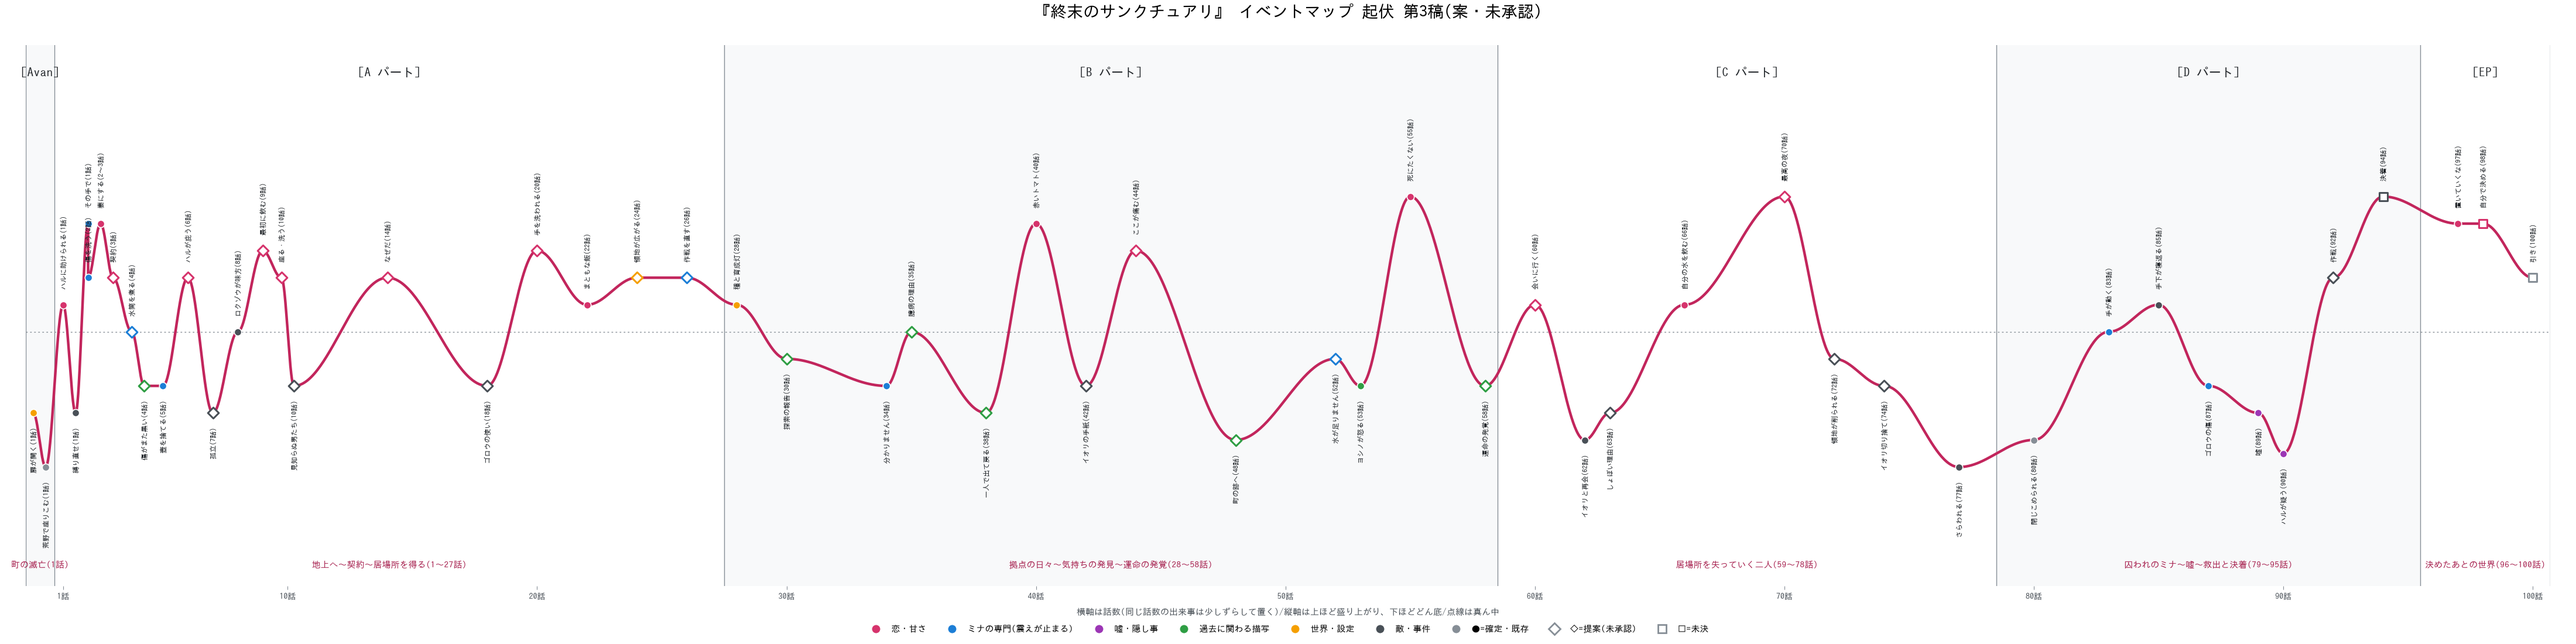
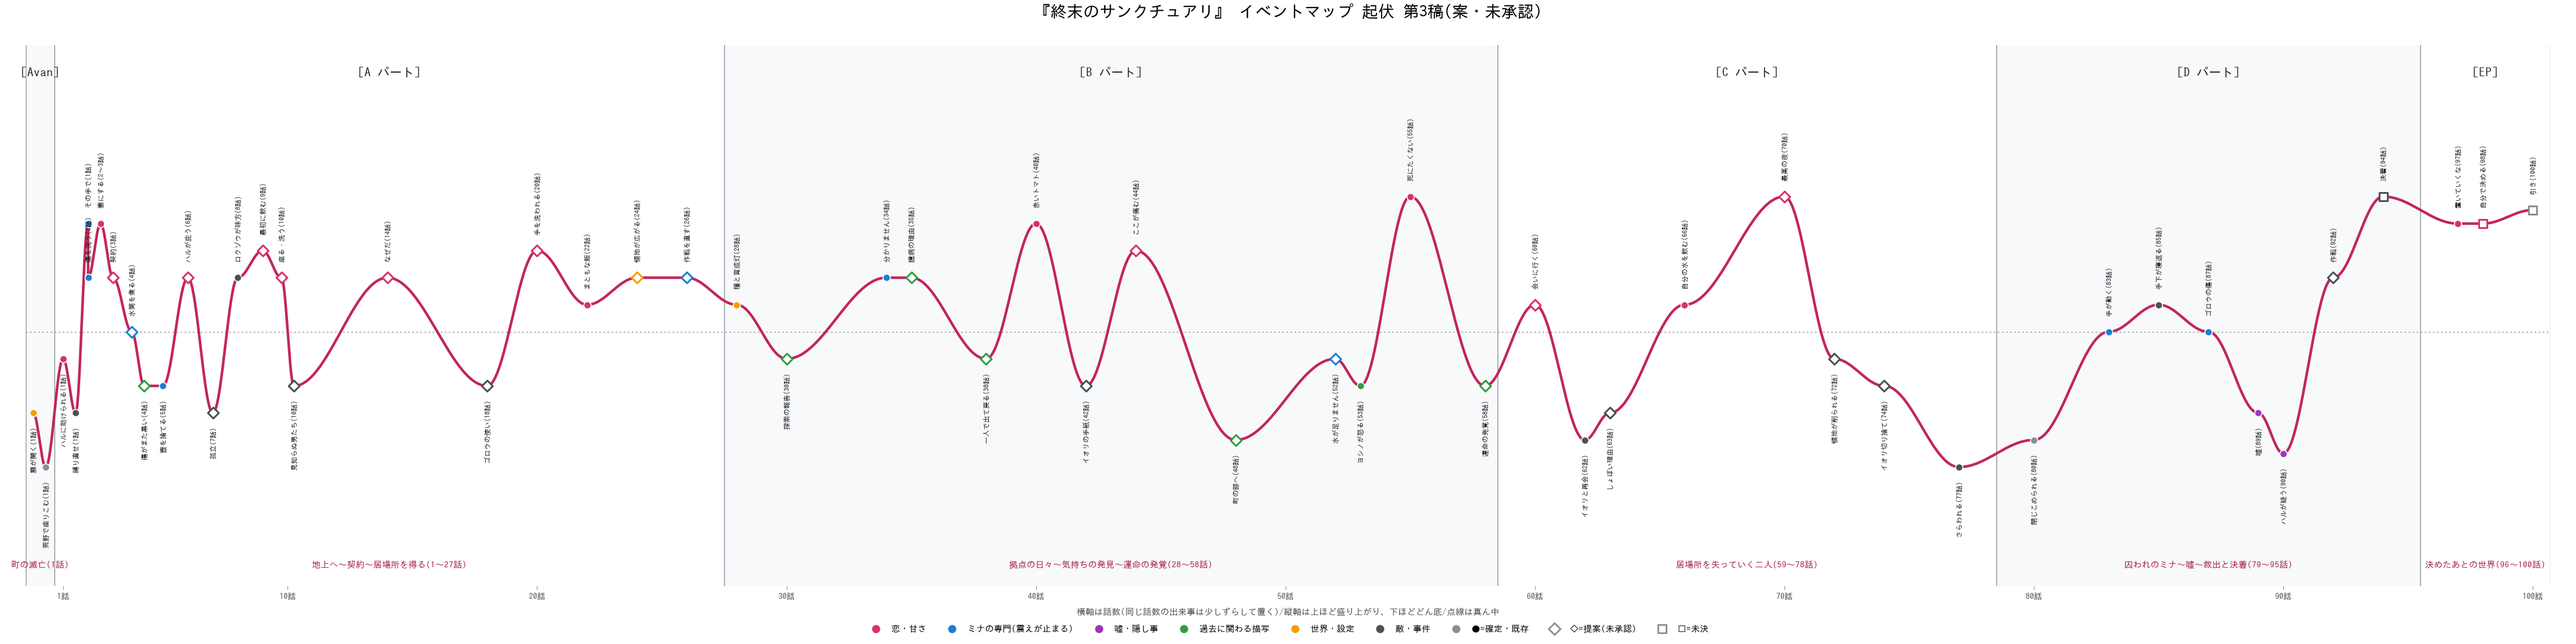
Review episode intensity values against two blind readers and record the scale definition
Claude-Session: https://claude.ai/code/session_018dkUDXa3XjFeNeXGfXNeGK

diff --git a/novels/shumatsu-no-sanctuary/案/案_イベントマップ.md b/novels/shumatsu-no-sanctuary/案/案_イベントマップ.md
@@ -2,7 +2,7 @@
 
 出来事だけのマップ(台詞は書かない)。第2稿に、`05_あらすじ_1〜10話.md` の中身を入れ、100話までの区切りをつないだ版。【新】=第3稿で追加、【変】=第3稿で直した。印なしは第2稿のまま。
 
-- 起伏: 0が一番どん底、10が一番盛り上がる(5が真ん中)。グラフは `案_イベントマップ_起伏.png`
+- 起伏: 0が一番どん底、10が一番盛り上がる(5が真ん中)。山場・カタルシス・甘さは高く、絶望・喪失は低くつける(状況の良し悪しではなく、盛り上がりで)。グラフは `案_イベントマップ_起伏.png`
 - 状態: ◎確定(CLAUDE.md)/○企画書・話数配分にあったもの/★私の提案(未承認)/？未決
 - タグ: 恋・専門(震えが止まる)・嘘・過去・世界・敵
 - 「空き」の話数は、日常回・つなぎ回。中身は未決(足していない)
@@ -19,7 +19,7 @@
 
 ## Aパート(1〜27話) 地上へ〜契約〜居場所を得る
 
-・盗賊に囲まれ、美しい青年に助けられる(1話) [起伏6/恋/◎]
+・盗賊に囲まれ、美しい青年に助けられる(1話) [起伏4/恋/◎]
 
 ・「縛り直せ」(助けたのではなかった)(1話) [起伏2/敵/◎]
 
@@ -41,7 +41,7 @@
 
 ・手下に避けられ、夜通し鍋を洗う(7話)【新】 [起伏2/敵/★]
 
-・ロクゾウが味方につき、ハルが決める(8話) [起伏5/敵/○]
+・ロクゾウが味方につき、ハルが決める(8話) [起伏7/敵/○]
 
 ・ハルが皆の前で、最初に水を飲む(9話)【新】 [起伏8/恋・専門/★]
 
@@ -69,11 +69,11 @@
 
 ・イオリの探索の報告(30話)【新】 [起伏4/過去/★]
 
-・燃料が尽き、ミナが分からないと言う。手下が火を起こし、「姐さん」と呼びはじめる(34話)【変】 [起伏3/専門/○]
+・燃料が尽き、ミナが分からないと言う。手下が火を起こし、「姐さん」と呼びはじめる(34話)【変】 [起伏7/専門/○]
 
-・ミナの臆病の理由を、ハルに打ち明ける。ハルは慰めず、仕事を頼む(35話)【変】 [起伏5/過去/★]
+・ミナの臆病の理由を、ハルに打ち明ける。ハルは慰めず、仕事を頼む(35話)【変】 [起伏7/過去/★]
 
-・一人でイオリの手がかりを追い、震えて戻る。ヨシノが離れてついてきている(38話) [起伏2/過去/★]
+・一人でイオリの手がかりを追い、震えて戻る。ヨシノが離れてついてきている(38話) [起伏4/過去/★]
 
 ・最初の赤いトマト。手下が列に並ぶ。ロクゾウが実を数える。ミナがハルの傷の塞がりを確かめる(40話)【変】 [起伏9/恋/○]
 
@@ -121,7 +121,7 @@
 
 ・ゴロウの手下が、一人ずつミナの側につく。感謝の言葉ではなく、空の水筒を差し出す(85話)【変】 [起伏6/敵/○]
 
-・ゴロウの傷に手が伸びる(87話) [起伏3/専門/○]
+・ゴロウの傷に手が伸びる(87話) [起伏5/専門/○]
 
 ・ミナ、ハルを守るために嘘をつく(89話) [起伏2/嘘/○]
 
@@ -137,4 +137,4 @@
 
 ・ミナが自分で決める。イオリを許さない、でも殺さない(L1採用)。L2・L3は未決(98話) [起伏9/恋/？]
 
-・引き(最後の台詞は未決。候補: ハルが式の話をする)(100話) [起伏7/—/？]
+・引き(最後の台詞は未決。候補: ハルが式の話をする)(100話) [起伏9.5/—/？]

diff --git a/novels/shumatsu-no-sanctuary/04_進捗メモ.md b/novels/shumatsu-no-sanctuary/04_進捗メモ.md
@@ -63,6 +63,8 @@
 - ハルの無口(7話)は、そのまま
 - 起伏の数値: 22話6、24話7、63話2、74話3
 - 予想を外す案を採用: 35話(慰めず仕事を頼む)、40話(手下が列に並ぶ)、70話(黙って座る)、85話(空の水筒)、94話(足が動かない)、98話L1(許さない、でも殺さない)、100話(式の話)
+- 起伏の数値は「盛り上がり」でつける(山場・カタルシス・甘さは高く、絶望・喪失は低く)。2026-10-05に、数値を伏せて別の読者2人に採点してもらい、私の値と突き合わせた(相関0.88、平均の差1.0)。差が2以上で、2人の平均に合わせて直したのは次の7件: 1話「助けられる」6→4、8話5→7、34話3→7、35話5→7、38話2→4、87話3→5、100話7→9.5
+- 1話「その手で」(9)と94話「決着」(10)は、2人が低く採点した(5.25、6)が、定義(盛り上がり)に合うので現行のまま
 - 台詞の実物は、書く段階で決める。以前の台詞案は、git の履歴(コミット b724a5e)に残っている
 
 ## まだ残っている穴
